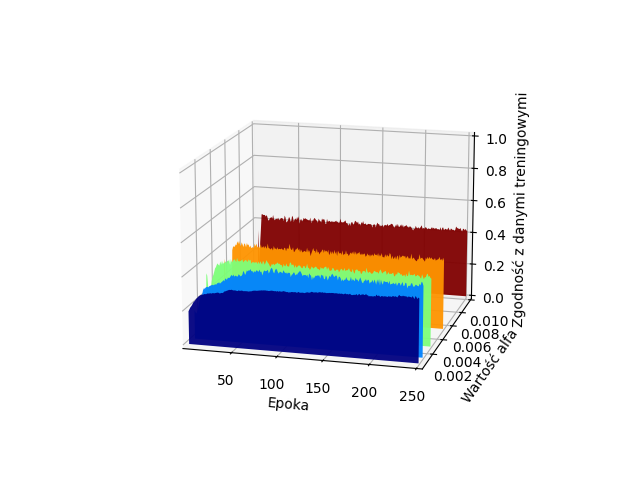
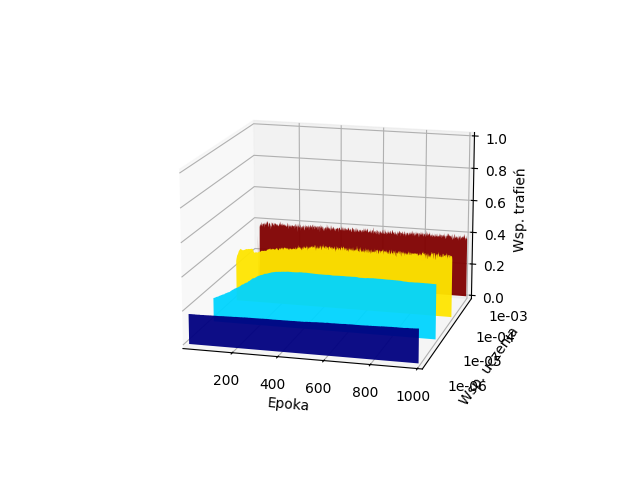
Refactor: minor improvements

diff --git a/main.py b/main.py
@@ -106,16 +106,16 @@ print("częstości: ", temp)
 # Radialna, LVQ, PNN, DTF
 wyniki = []
 #alfy = [0.00025, 0.001,  0.0025, 0.005, 0.01]
-alfy = [0.00005, 0.0001, 0.0005,  0.001]
+alfy = [0.000001, 0.00001, 0.0001,  0.001]
 bety = [0.5, 1, 2, 5, 10, 20, 50, 100, 200, 500, 1000]
 ilosciNeuronow = [1, 2, 3, 4, 5, 6, 7, 8, 9, 10]
-iloscEpok = 5
+iloscEpok = 1000
 
 
 # badanie alfy
 for alfa in alfy:
-    wyniki.append(runLVQ(inputRedT.copy(), outputRedT.copy(), iloscEpok, alfa, inputRedK.copy(), outputRedK.copy()))
-    #wyniki.append(runLVQ(inputWhiteT.copy(), outputWhiteT.copy(), iloscEpok, alfa, inputWhiteK.copy(), outputWhiteK.copy()))
+    #wyniki.append(runLVQ(inputRedT.copy(), outputRedT.copy(), iloscEpok, alfa, inputRedK.copy(), outputRedK.copy()))
+    wyniki.append(runLVQ(inputWhiteT.copy(), outputWhiteT.copy(), iloscEpok, alfa, inputWhiteK.copy(), outputWhiteK.copy()))
     #wyniki.append(runRBF(inputRedT.copy(), outputRedT.copy(), iloscEpok, 5, alfa, 5, inputRedK.copy(), outputRedK.copy()))
 
 
@@ -169,14 +169,15 @@ poly = PolyCollection(verts, facecolors=facecolors, alpha=.95)
 ax.add_collection3d(poly, zs=y_values, zdir='y')
 ax.view_init(15, -75, 0)
 
-ax.set(xlim=(x[0], x[-1]), ylim=(alfy[0], alfy[-1]), zlim=(0, 1), xlabel='Epoka', zlabel='Wsp. trafień')
+ax.set(xlim=(x[0], x[-1]), ylim=(alfy[0], alfy[-1]), zlim=(0, 1), xlabel='Epoka', zlabel='Wsp. trafień', ylabel='Wsp. uczenia')
 
 # Remove y-axis tick labels
 ax.set_yticks([])
 
 # Add text labels for the y-axis on the left
 for i, y in enumerate(y_values):
-    ax.text(6.1, y, -0.1, "{:.{}e}".format(alfy[i], 2), va='center', ha='right')
+    #ax.text(6.1, y, -0.1, "{:.{}e}".format(alfy[i], 2), va='center', ha='right')
+    ax.text(1.29 * iloscEpok, y, -0.1, "{:.{}e}".format(alfy[i], 0), va='center', ha='right')
 
 plt.show()
 
